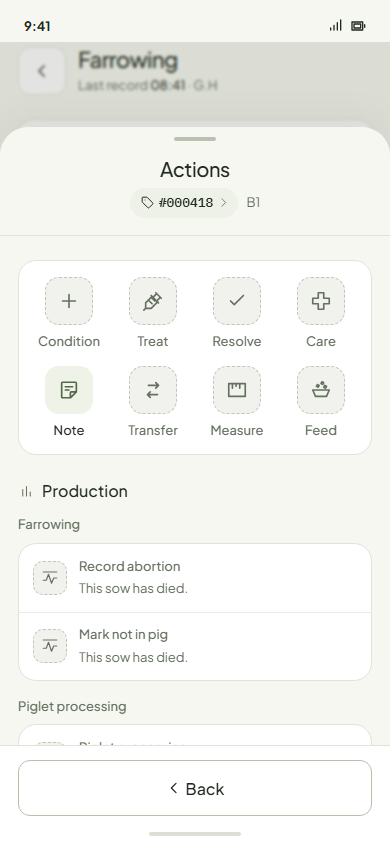
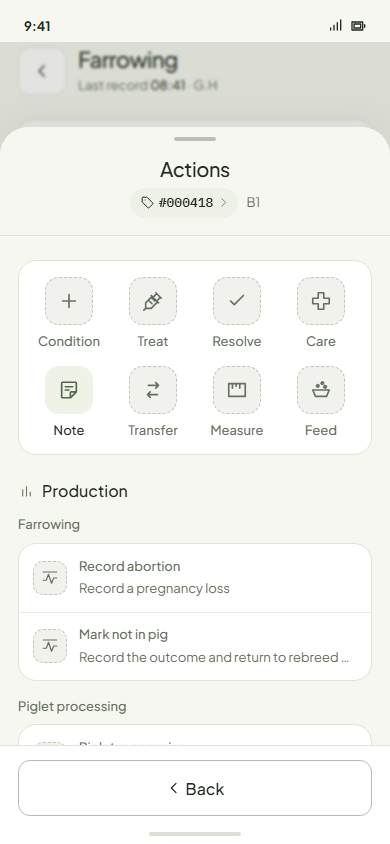
Greyed rows keep their own description; the reason is in the accessible name only, as on a greyed tile

Changed region(s): [[0.2154, 0.7701, 0.8615, 0.8009], [0.2154, 0.6777, 0.5846, 0.7085]]

diff --git a/ux/system/inspection-astra-concept.js b/ux/system/inspection-astra-concept.js
@@ -1313,7 +1313,9 @@ function actionCatalogue(c){
 }
 function sowTaskCard(c){if(picked(c).length!==1||c.selectedPens.size)return '';const tasks=currentTasksForPig(c,picked(c)[0]);if(!tasks.length)return '';const heading=stHeading({title:'Current tasks',meta:String(tasks.length),kind:'section',level:4});return `<section class="sow-task-section" aria-label="Linked tasks">${heading}<div class="sow-task-rail" aria-label="Current tasks">${tasks.map(t=>button(t.action||'sow-current-task',`<span class="sow-task-card-main"><strong>${esc(t.title)}</strong>${icon('chevron')}</span><span class="sow-task-card-meta"><span class="sow-task-status">${esc(t.status)}</span><span class="sow-task-type" data-type="${esc((t.type||'General').toLowerCase())}">${esc(t.type||'General')}</span></span>`,'sow-task-card',t.value||t.id)).join('')}</div></section>`;}
 
-function actionRows(items){return items.map(x=>action(x.a,x.k,x.title,x.reason||x.sub,x.value,!!x.reason)).join('');}
+/* A greyed row keeps its own description: the reason is in its accessible name only, as on a greyed tile (owner, 2026-11-06: "just
+   grey"; six rows each saying "This sow has died." is the same fact six times). */
+function actionRows(items){return items.map(x=>action(x.a,x.k,x.title,x.sub,x.value,!!x.reason,x.reason)).join('');}
 function productionActionGroups(c,items){
  const farrowingIds=new Set(['miscarriage','edit']),processingIds=new Set(['piglets','death','countReconcile','foster']);
  const taskScope=x=>['farrowing','piglet-processing','pregnancy-check','gestation','breeding','lactation','growth','other'].includes(x.section)?x.section:farrowingIds.has(x.value)?'farrowing':processingIds.has(x.value)?'piglet-processing':'other';
@@ -2053,7 +2055,7 @@ function pigWhat(p){const type=animalType(p);return type!=='Sow'?type:(p.stage==
 function pigFacts(c,p){if(c.hostNote){const where=[c.unitLabel,penOf(c,p.id).id].filter(Boolean).join(' · ');return {text:[{text:c.hostNote},...(where?[{sep:true},{text:where}]:[])]};}return {text:[{text:pigUnit(c,p.id)+' · '+penOf(c,p.id).id},...(pigWhat(p)?[{sep:true},{text:pigWhat(p)}]:[])]};}
 function pigRoute(c,p){return {chip:{id:p.id,action:'pig',value:p.id,label:'Open pig '+p.id},facts:[penOf(c,p.id).id]};}
 function scope(c){const ids=c.form.subjects||[...c.selected],pens=[...new Set(ids.map(id=>penOf(c,id)?.id))];return `${countLabel(ids.length)} · ${pens.join(' / ')}`;}
-function action(a,k,title,sub,v='',disabled=false){return stRow({action:a,title,description:sub,icon:icon(k),value:v,disabled,className:'action-item',attrs:entryFor(a)?{'data-entry':entryFor(a)}:{}});}
+function action(a,k,title,sub,v='',disabled=false,reason=''){return stRow({action:a,title,description:sub,icon:icon(k),value:v,disabled,className:'action-item',attrs:{...(entryFor(a)?{'data-entry':entryFor(a)}:{}),...(disabled&&reason?{'aria-label':`${title}, not available: ${String(reason).replace(/\.$/,'')}`}:{})}});}
 function textField(label,key,value='',placeholder=''){return SentriUI.field({label:label||'Note',variant:'textarea',control:`<textarea data-field="${key}" placeholder="${placeholder}">${esc(value)}</textarea>`});}
 
 function choices(items,current,key,group){return SentriUI.choiceRadios({label:'Reason',key,action:'form-choice',selected:current||'',options:items.map(([value,label,meta])=>({value,label,meta}))});}
